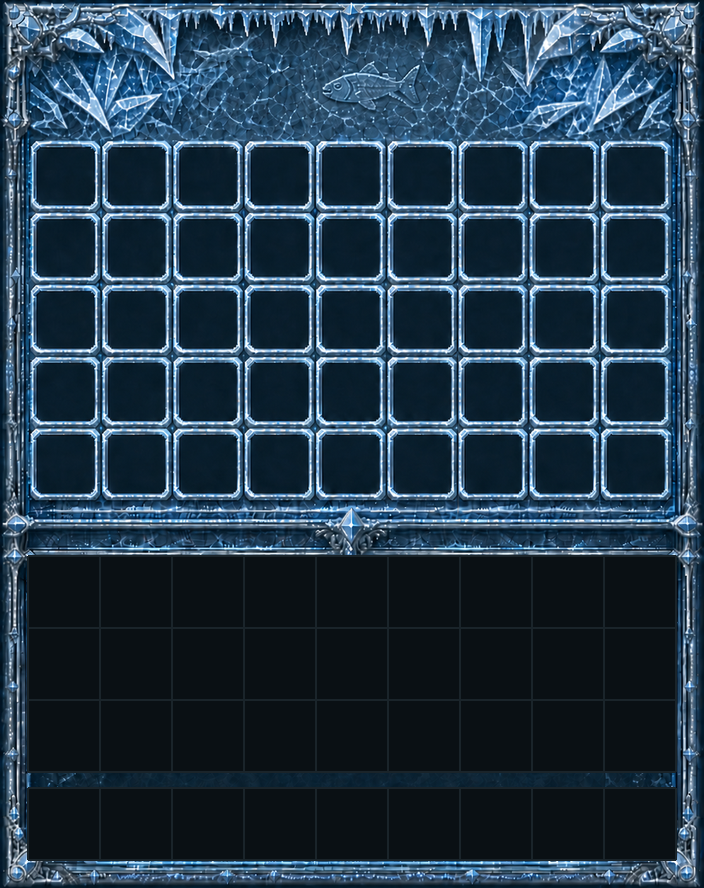
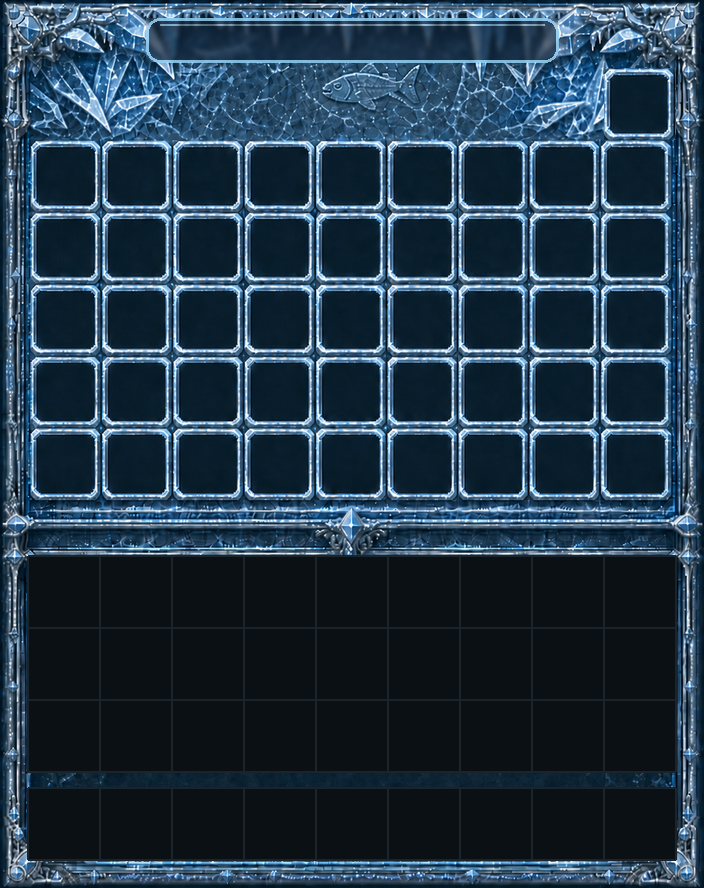
아이스박스 제목 성에판 + 상점 버튼 홈
납품본에 제목 명판이 없어(발주엔 넣으라 했는데 고드름만 왔다) 티어 이름이 고드름
위에 떨어졌다. 바닐라 제목 줄(art y 24~56)에 가장 긴 티어명만큼만 성에판을 깐다 —
창 전체로 늘리면 고드름 장식이 통째로 덮인다.

상점 버튼 홈은 이 그림의 보관칸 소켓을 그대로 떠다 심었다(같은 그림이라 광원·팔레트가
정확히 맞는다).

Changed region(s): [[0.1875, 0.0, 0.8125, 0.0912], [0.8438, 0.0608, 0.9688, 0.1824]]

diff --git a/gui-forge/prep_icebox_bg.py b/gui-forge/prep_icebox_bg.py
@@ -1,0 +1,64 @@
+#!/usr/bin/env python3
+"""아이스박스 배경 손질 — 납품본(bg_raw.png) → bg_source.png.
+
+납품본에 **제목 명판이 없다**(발주엔 넣으라고 했는데 고드름 장식만 왔다). 그런데 우리는
+티어 이름을 제목으로 찍기로 했으므로(IceboxGui.titleFor) 글자가 고드름 위에 떨어져 안 읽힌다.
+
+바닐라는 상자 제목을 **GUI y 6**(art y 24~56)에 그리고 그 세로 위치는 바꿀 수 없다 —
+그 줄이 하필 고드름 자리다. 세로를 못 옮기니 **가로로 좁힌다**: 제목을 티어 이름만
+남겨 가운데로 모으고(가장 긴 「다이아몬드 아이스박스」가 art 164~540), 딱 그만큼만
+**성에 낀 유리판**을 깐다. 판을 창 전체로 늘리면 고드름 장식이 통째로 덮인다.
+
+또 하나: 아이스박스 상점 버튼이 갈 자리가 없다. **오른쪽 아래(53)는 45번째 보관칸**이라
+쓸 수 없다(9티어가 실제로 45칸을 다 쓴다). 그래서 0행 오른쪽 끝(슬롯 8)에 홈을 판다 —
+0행은 장식이라 비어 있고, 가운데(4)는 물고기 그림이라 남겨 둔다.
+홈은 **이 그림의 보관칸 소켓을 그대로 떠다 쓴다** — 같은 그림이라 광원·팔레트가 정확히 맞는다.
+
+사용: python3 prep_icebox_bg.py
+"""
+import os
+
+from PIL import Image, ImageDraw, ImageFilter
+
+HERE = os.path.dirname(os.path.abspath(__file__))
+SRC = os.path.join(HERE, "src", "icebox")
+
+S = 4
+BAR = (146, 18, 558, 62)         # art px — 가장 긴 티어명(164~540) + 좌우 여백 18
+FILL = (14, 32, 52, 168)         # 성에 낀 유리: 어둡게 깔되 뒤가 비치게
+RIM = (150, 210, 245, 210)
+SHOP_SLOT = 8            # 0행 오른쪽 끝 — 상점 버튼 홈
+SOCKET_FROM = 13         # 떠올 소켓 (1행 col4, 깨끗한 보관칸)
+
+
+def main():
+    raw = os.path.join(SRC, "bg_raw.png")
+    im = Image.open(raw).convert("RGBA").resize((704, 888), Image.Resampling.LANCZOS)
+
+    # 띠 뒤쪽을 살짝 흐려 글자 대비를 올린다(고드름 끝이 글자에 찌르는 걸 눌러 준다).
+    x0, y0, x1, y1 = BAR
+    blur = im.crop(BAR).filter(ImageFilter.GaussianBlur(2.2))
+    im.paste(blur, (x0, y0))
+
+    plate = Image.new("RGBA", im.size, (0, 0, 0, 0))
+    d = ImageDraw.Draw(plate)
+    d.rounded_rectangle(BAR, radius=14, fill=FILL, outline=RIM, width=3)
+    d.line((x0 + 14, y0 + 6, x1 - 14, y0 + 6), fill=(210, 240, 255, 90), width=2)  # 윗면 반사
+    im.alpha_composite(plate)
+
+    # 상점 버튼 홈 — 이 그림의 보관칸 소켓을 그대로 옮겨 심는다.
+    def cell(slot):
+        r, c = divmod(slot, 9)
+        x0, y0 = (7 + 18 * c) * S, (17 + 18 * r) * S
+        return (x0, y0, x0 + 18 * S, y0 + 18 * S)
+    src_box, dst_box = cell(SOCKET_FROM), cell(SHOP_SLOT)
+    im.paste(im.crop(src_box), (dst_box[0], dst_box[1]))
+
+    im.putalpha(255)
+    out = os.path.join(SRC, "bg_source.png")
+    im.save(out)
+    print(f"  제목 띠 art y {y0}~{y1} · 상점 홈 슬롯 {SHOP_SLOT} → {out}")
+
+
+if __name__ == "__main__":
+    main()
